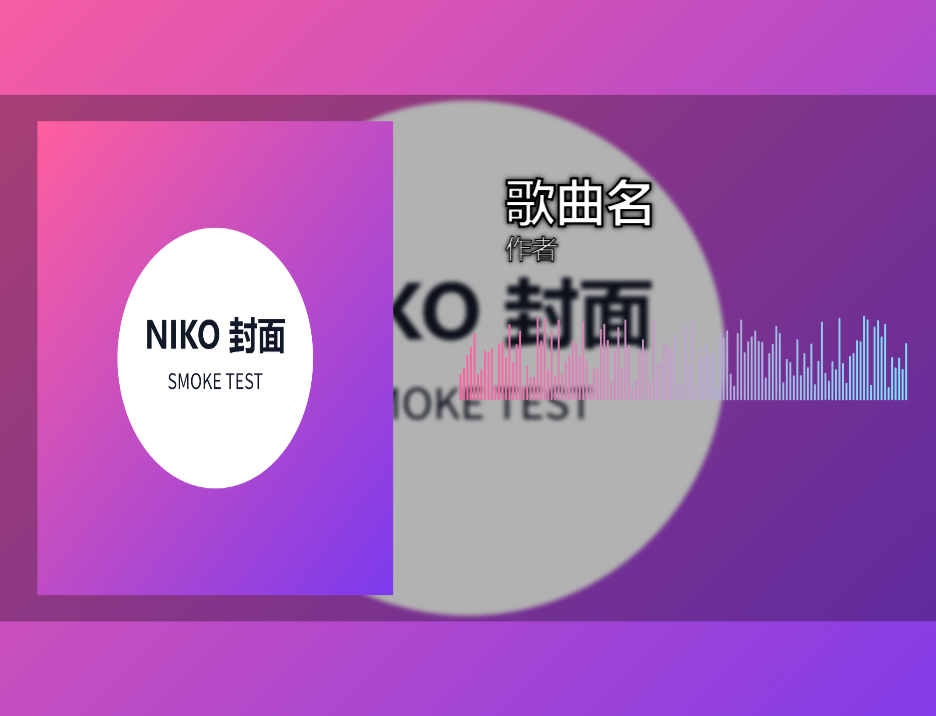
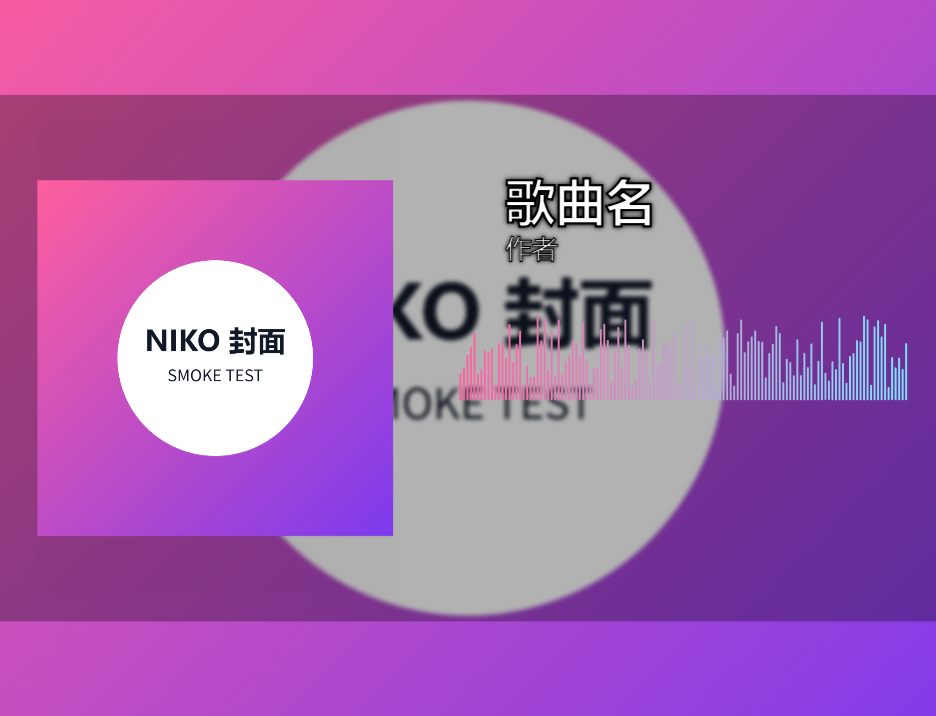
M2 补充: 主图填充模式改为默认等比适配 contain（用户确认）

diff --git a/src/renderer/src/components/SceneLayers.tsx b/src/renderer/src/components/SceneLayers.tsx
@@ -127,7 +127,7 @@ function TextNode({ cfg }: { cfg: TextLayerConfig }): React.JSX.Element {
   )
 }
 
-/** 主图层：可拖拽 + 等比缩放手柄；未加载封面时显示占位框 */
+/** 主图层：Group 承载拖拽 + 等比缩放手柄；图片按 fillMode 填充 */
 function MainImageLayer({
   layout,
   coverElement,
@@ -135,20 +135,21 @@ function MainImageLayer({
   onSelect,
   onMainRectChange
 }: SceneLayersProps): React.JSX.Element {
-  const mainRef = useRef<Konva.Image>(null)
+  const groupRef = useRef<Konva.Group>(null)
   const trRef = useRef<Konva.Transformer>(null)
   const px = normToPixel(layout.mainImage.rect, CANVAS)
+  const fillMode = layout.mainImage.fillMode
 
   useEffect(() => {
     const tr = trRef.current
-    const node = mainRef.current
+    const node = groupRef.current
     if (tr && node && selectedId === 'mainImage') {
       tr.nodes([node])
       tr.getLayer()?.batchDraw()
     }
-  }, [selectedId, coverElement])
+  }, [selectedId, coverElement, fillMode])
 
-  const commitFromNode = (node: Konva.Image): void => {
+  const commitFromGroup = (node: Konva.Group): void => {
     const rect = {
       x: node.x(),
       y: node.y(),
@@ -158,64 +159,97 @@ function MainImageLayer({
     onMainRectChange(pixelToNorm(rect, CANVAS))
   }
 
+  let imageNode: React.JSX.Element | null = null
+  if (coverElement) {
+    const iw = coverElement.naturalWidth || coverElement.width
+    const ih = coverElement.naturalHeight || coverElement.height
+    if (iw > 0 && ih > 0) {
+      if (fillMode === 'stretch') {
+        imageNode = <KonvaImage image={coverElement} width={px.w} height={px.h} listening={false} />
+      } else {
+        const s =
+          fillMode === 'contain' ? Math.min(px.w / iw, px.h / ih) : Math.max(px.w / iw, px.h / ih)
+        const dw = iw * s
+        const dh = ih * s
+        imageNode = (
+          <KonvaImage
+            image={coverElement}
+            x={(px.w - dw) / 2}
+            y={(px.h - dh) / 2}
+            width={dw}
+            height={dh}
+            listening={false}
+          />
+        )
+      }
+    }
+  }
+
+  const isCover = fillMode === 'cover'
+
   return (
     <>
-      {coverElement ? (
-        <KonvaImage
-          ref={mainRef}
-          image={coverElement}
-          x={px.x}
-          y={px.y}
-          width={px.w}
-          height={px.h}
-          draggable
-          onClick={() => onSelect('mainImage')}
-          onTap={() => onSelect('mainImage')}
-          onDragStart={() => onSelect('mainImage')}
-          onDragEnd={(e: KonvaEventObject<DragEvent>) => commitFromNode(e.target as Konva.Image)}
-          onTransformEnd={(e: KonvaEventObject<Event>) => {
-            const node = e.target as Konva.Image
-            const sx = node.scaleX()
-            const sy = node.scaleY()
-            node.scale({ x: 1, y: 1 })
-            node.width(node.width() * sx)
-            node.height(node.height() * sy)
-            commitFromNode(node)
-          }}
-          dragBoundFunc={(pos) => {
-            const node = mainRef.current
-            if (!node) return pos
-            const w = node.width() * node.scaleX()
-            const h = node.height() * node.scaleY()
-            return {
-              x: Math.min(Math.max(pos.x, 0), LOGICAL_WIDTH - w),
-              y: Math.min(Math.max(pos.y, 0), LOGICAL_HEIGHT - h)
-            }
-          }}
-        />
-      ) : (
-        <Group x={px.x} y={px.y}>
-          <Rect
-            width={px.w}
-            height={px.h}
-            stroke="#5a5f6a"
-            strokeWidth={2}
-            dash={[12, 8]}
-            cornerRadius={10}
-            listening={false}
-          />
-          <KonvaText
-            text="拖入封面图"
-            x={0}
-            y={px.h / 2 - 26}
-            width={px.w}
-            fontSize={44}
-            fill="#7a808d"
-            align="center"
-            listening={false}
-          />
-        </Group>
-      )}
+      <Group
+        ref={groupRef}
+        x={px.x}
+        y={px.y}
+        width={px.w}
+        height={px.h}
+        draggable
+        onClick={() => onSelect('mainImage')}
+        onTap={() => onSelect('mainImage')}
+        onDragStart={() => onSelect('mainImage')}
+        onDragEnd={(e: KonvaEventObject<DragEvent>) => commitFromGroup(e.target as Konva.Group)}
+        onTransformEnd={(e: KonvaEventObject<Event>) => {
+          const node = e.target as Konva.Group
+          const sx = node.scaleX()
+          const sy = node.scaleY()
+          node.scale({ x: 1, y: 1 })
+          node.width(node.width() * sx)
+          node.height(node.height() * sy)
+          commitFromGroup(node)
+        }}
+        dragBoundFunc={(pos) => {
+          const node = groupRef.current
+          if (!node) return pos
+          const w = node.width() * node.scaleX()
+          const h = node.height() * node.scaleY()
+          return {
+            x: Math.min(Math.max(pos.x, 0), LOGICAL_WIDTH - w),
+            y: Math.min(Math.max(pos.y, 0), LOGICAL_HEIGHT - h)
+          }
+        }}
+        clipX={isCover ? 0 : undefined}
+        clipY={isCover ? 0 : undefined}
+        clipWidth={isCover ? px.w : undefined}
+        clipHeight={isCover ? px.h : undefined}
+      >
+        {/* 透明命中区：让整个矩形（含透明留白）都可拖动/选中 */}
+        <Rect width={px.w} height={px.h} fill="rgba(0,0,0,0.01)" />
+        {imageNode ?? (
+          <>
+            <Rect
+              width={px.w}
+              height={px.h}
+              stroke="#5a5f6a"
+              strokeWidth={2}
+              dash={[12, 8]}
+              cornerRadius={10}
+              listening={false}
+            />
+            <KonvaText
+              text="拖入封面图"
+              x={0}
+              y={px.h / 2 - 26}
+              width={px.w}
+              fontSize={44}
+              fill="#7a808d"
+              align="center"
+              listening={false}
+            />
+          </>
+        )}
+      </Group>
       {selectedId === 'mainImage' && coverElement && (
         <Transformer
           ref={trRef}

diff --git a/src/renderer/src/hooks/useProject.ts b/src/renderer/src/hooks/useProject.ts
@@ -2,6 +2,7 @@ import { useCallback, useState } from 'react'
 import {
   BackgroundConfig,
   DEFAULT_LAYOUT,
+  MainImageConfig,
   NormRect,
   ProjectLayout,
   TextLayerConfig,
@@ -38,6 +39,7 @@ export function useProject(): {
   fileError: string | null
   updateBackground: (patch: Partial<BackgroundConfig>) => void
   updateMainRect: (rect: NormRect) => void
+  updateMainImage: (patch: Partial<MainImageConfig>) => void
   updateText: (kind: 'songTitle' | 'artist', patch: Partial<TextLayerConfig>) => void
   updateVisualizer: (patch: Partial<VisualizerConfig>) => void
   setCoverFile: (file: File | null) => void
@@ -53,7 +55,11 @@ export function useProject(): {
   }, [])
 
   const updateMainRect = useCallback((rect: NormRect) => {
-    setLayout((l) => ({ ...l, mainImage: { rect } }))
+    setLayout((l) => ({ ...l, mainImage: { ...l.mainImage, rect } }))
+  }, [])
+
+  const updateMainImage = useCallback((patch: Partial<MainImageConfig>) => {
+    setLayout((l) => ({ ...l, mainImage: { ...l.mainImage, ...patch } }))
   }, [])
 
   const updateText = useCallback(
@@ -123,6 +129,7 @@ export function useProject(): {
     fileError,
     updateBackground,
     updateMainRect,
+    updateMainImage,
     updateText,
     updateVisualizer,
     setCoverFile,

diff --git a/src/renderer/src/App.tsx b/src/renderer/src/App.tsx
@@ -5,6 +5,7 @@ import { useProject } from './hooks/useProject'
 import { CanvasStage } from './components/CanvasStage'
 import { InputPanel } from './components/panels/InputPanel'
 import { BackgroundPanel } from './components/panels/BackgroundPanel'
+import { MainImagePanel } from './components/panels/MainImagePanel'
 
 const IS_VISUAL_SMOKE = new URLSearchParams(window.location.search).has('smokeVisual')
 
@@ -74,7 +75,7 @@ function runVisualChecks(stage: Konva.Stage): VisualCheckReport {
   }
 
   // 2) 主图中心：合成封面白色圆盘处应为亮色
-  const main = sample(441, 419)
+  const main = sample(441, 540)
   if (main[0] > 200 && main[1] > 200 && main[2] > 200) {
     pass('主图落位', '主图中心 rgb(' + main.slice(0, 3).join(',') + ') 为白色圆盘')
   } else {
@@ -189,6 +190,7 @@ function App(): React.JSX.Element {
             onCoverFile={(f) => void project.setCoverFile(f)}
             onAudioFile={(f) => void project.setAudioFile(f)}
           />
+          <MainImagePanel mainImage={project.layout.mainImage} onChange={project.updateMainImage} />
           <BackgroundPanel
             background={project.layout.background}
             onChange={project.updateBackground}

diff --git a/src/renderer/src/components/panels/MainImagePanel.tsx b/src/renderer/src/components/panels/MainImagePanel.tsx
@@ -1,0 +1,28 @@
+import type { MainImageConfig } from '@shared/layout'
+
+interface MainImagePanelProps {
+  mainImage: MainImageConfig
+  onChange: (patch: Partial<MainImageConfig>) => void
+}
+
+export function MainImagePanel({ mainImage, onChange }: MainImagePanelProps): React.JSX.Element {
+  return (
+    <section className="panel-section">
+      <h2>主图</h2>
+      <label className="field">
+        <span>填充方式</span>
+        <select
+          value={mainImage.fillMode}
+          onChange={(e) => onChange({ fillMode: e.target.value as MainImageConfig['fillMode'] })}
+        >
+          <option value="contain">等比适配（完整显示，留透明边）</option>
+          <option value="cover">等比铺满（填满矩形，裁掉多余）</option>
+          <option value="stretch">拉伸填满（可能变形）</option>
+        </select>
+      </label>
+      <p className="panel-note">
+        等比适配：图片永不变形、完整可见；矩形与图片比例不一致时，空白处透明（透出模糊背景）。
+      </p>
+    </section>
+  )
+}

diff --git a/src/shared/layout.ts b/src/shared/layout.ts
@@ -53,6 +53,8 @@ export interface BackgroundConfig {
 
 export interface MainImageConfig {
   rect: NormRect
+  /** contain=等比适配留透明边（默认，永不变形）/ cover=等比铺满裁切 / stretch=拉伸填满（可能变形） */
+  fillMode: 'contain' | 'cover' | 'stretch'
 }
 
 export interface VisualizerConfig {
@@ -111,7 +113,9 @@ export const DEFAULT_LAYOUT: ProjectLayout = {
   },
   mainImage: {
     // 主图：左侧、垂直居中、高度≈画布 90%、宽≈画布 40%
-    rect: { x: 0.04, y: 0.05, w: 0.38, h: 0.9 }
+    rect: { x: 0.04, y: 0.05, w: 0.38, h: 0.9 },
+    // 用户确认：等比适配，图片完整显示、永不变形（矩形内留透明边）
+    fillMode: 'contain'
   },
   texts: {
     songTitle: {

diff --git a/src/shared/layout.test.ts b/src/shared/layout.test.ts
@@ -33,6 +33,10 @@ describe('归一化布局模型', () => {
     expect(DEFAULT_LAYOUT.visualizer.barCount).toBeLessThanOrEqual(160)
   })
 
+  it('主图默认填充模式为等比适配 contain（用户确认）', () => {
+    expect(DEFAULT_LAYOUT.mainImage.fillMode).toBe('contain')
+  })
+
   it('主图默认高≈90%、宽≈40%，左侧垂直居中', () => {
     const r = DEFAULT_LAYOUT.mainImage.rect
     expect(r.h).toBeCloseTo(0.9, 5)

diff --git a/src/renderer/src/assets/main.css b/src/renderer/src/assets/main.css
@@ -106,6 +106,16 @@ body {
   accent-color: #ff5f9e;
 }
 
+.field select {
+  background: var(--ev-c-black-mute);
+  border: 1px solid var(--ev-c-gray-2);
+  border-radius: 6px;
+  color: var(--ev-c-text-1);
+  padding: 7px 10px;
+  font-size: 13px;
+  outline: none;
+}
+
 .check-row {
   display: flex;
   align-items: center;

diff --git a/docs/DECISIONS.md b/docs/DECISIONS.md
@@ -17,6 +17,7 @@
 | Q8  | 波形需求修正       | **用户更正：不要静态波形图，要随音乐实时变化的音频可视化。** 选定：经典频谱柱（按频率分段的柱子实时起伏）；位置沿用横向 [49%,97%]、中心 y≈49%；不做进度双色高亮；颜色单色/多色/渐变；柱数默认 128（100–160 可调）、柱宽/间距/高度/圆角可调 |
 | Q9  | 参考图基准         | 附件图本会话不可见 → 按 §4 数值坐标实现，M3 完成后发截图用户目视比对定稿                                                                                                                                                                   |
 | Q10 | 计划 slug          | nikokaraoke                                                                                                                                                                                                                                |
+| Q11 | 主图填充方式（追加） | 等比适配 contain：图片完整显示、永不变形，矩形内留透明边（透出模糊背景）；面板可选 cover / stretch                                                                                                                                          |
 
 ## 1. 产品定义
 
@@ -36,6 +37,7 @@
 - **导出管线**：静态层（背景/主图/文本）一次渲染缓存 → 每帧 = 缓存 + 频谱 painter(t) → VideoFrame → VideoEncoder H.264（yuv420p，优先 quantizer 高质量，不支持则分档码率）→ mp4-muxer 仅视频 mp4 → main 用当前选中 ffmpeg 执行 -c:v copy -c:a aac -b:a 192k -shortest -movflags +faststart 合并。
 - fps 默认 30；导出默认分辨率 1080p；4K 失败提示降 1080p（不自动降）。
 - 预览播放结束：停止不循环（Q5）。
+- **主图填充模式**（Q11 追加确认）：默认等比适配 contain（完整显示、不变形、留透明边）；可选 cover（铺满裁切）与 stretch（拉伸填满）。背景层恒为 cover 铺满。
 
 ## 3. ffmpeg 三源管理
 

diff --git a/nikokaraoke.md b/nikokaraoke.md
@@ -55,5 +55,5 @@
 ## 执行记录
 
 - GitHub 已同步：github.com/NirvanaKaruma/NikoKaraokeVideoMaker（私有，main 分支，SSH 推送）。
-- M2 完成（编辑器核心）。T6 输入三件套（点选+拖放+格式校验）✓；T7 Konva 1920×1080 逻辑画布自适应缩放 + 四层体系 ✓；T8 归一化布局模型 + 7 项单测 ✓；T9 主图拖拽 + 等比缩放手柄 + 下半区警告 ✓；T10 背景层（模糊/压暗/背景色/纯色开关，透明图先合成再模糊）✓。自测：typecheck/lint/test/build 全绿；smoke-visual 像素校验 5/5 通过（背景铺满/主图落位/文本层/可视化层/下半区留白）。
+- M2 补充（用户问答）：主图填充模式改为默认「等比适配 contain」（完整显示不变形，面板可切换 cover/stretch）；主图承载改为 Group + 透明命中区。T6 输入三件套（点选+拖放+格式校验）✓；T7 Konva 1920×1080 逻辑画布自适应缩放 + 四层体系 ✓；T8 归一化布局模型 + 7 项单测 ✓；T9 主图拖拽 + 等比缩放手柄 + 下半区警告 ✓；T10 背景层（模糊/压暗/背景色/纯色开关，透明图先合成再模糊）✓。自测：typecheck/lint/test/build 全绿；smoke-visual 像素校验 5/5 通过（背景铺满/主图落位/文本层/可视化层/下半区留白）。
 - M1 完成（用户已装依赖；electron 升级 ^44.0.0 修复 2 高危）。T1 脚手架+npm 依赖 ✓；T2 IPC ping/pong（shared/ipc.ts 白名单 + main handle + preload 暴露 + renderer 显示）✓；T3 README 骨架 + DECISIONS.md ✓；T4 git init + 首次提交 ccc54a4 ✓；T5 自测：typecheck ✓ / lint ✓ / build ✓ / smoke 结果 PING_OK:pong ✓。
